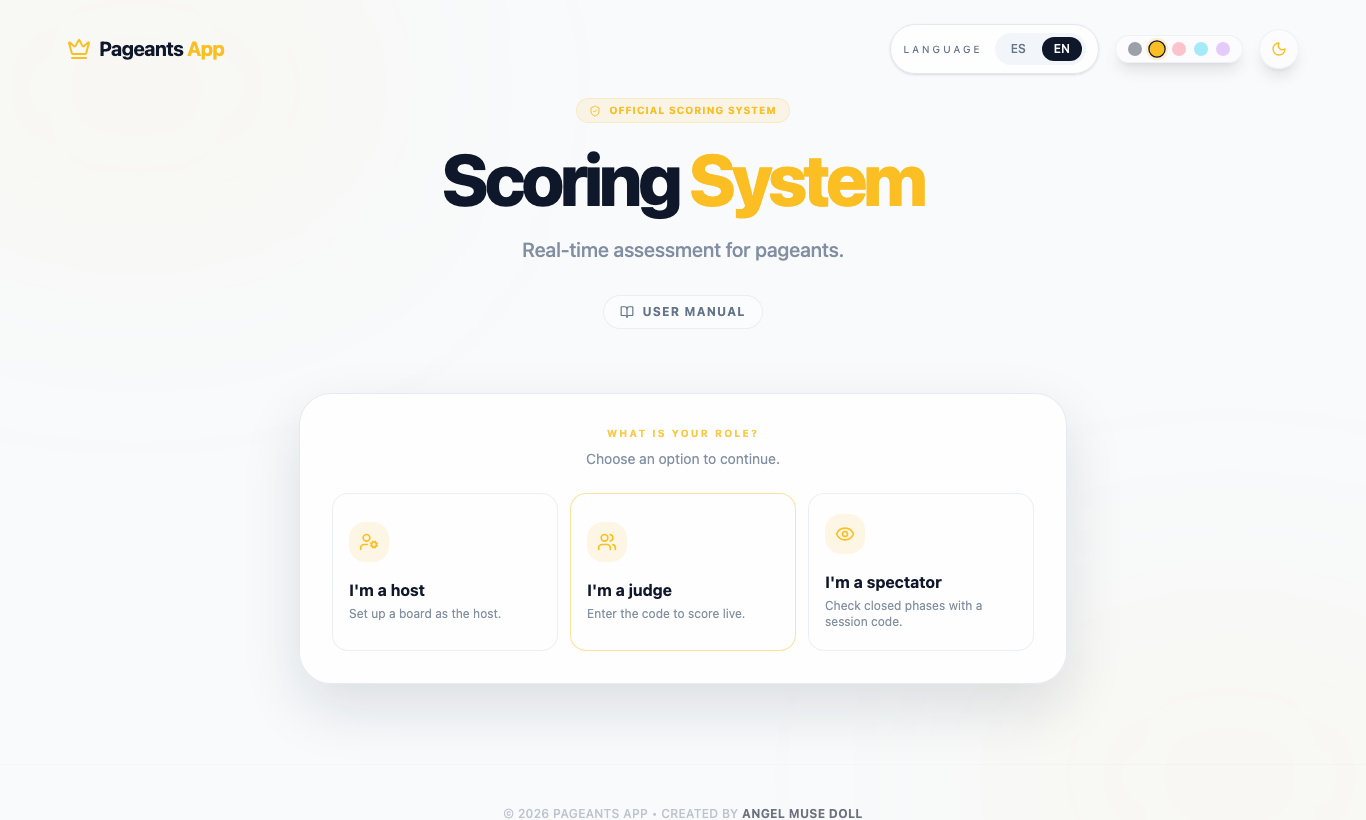
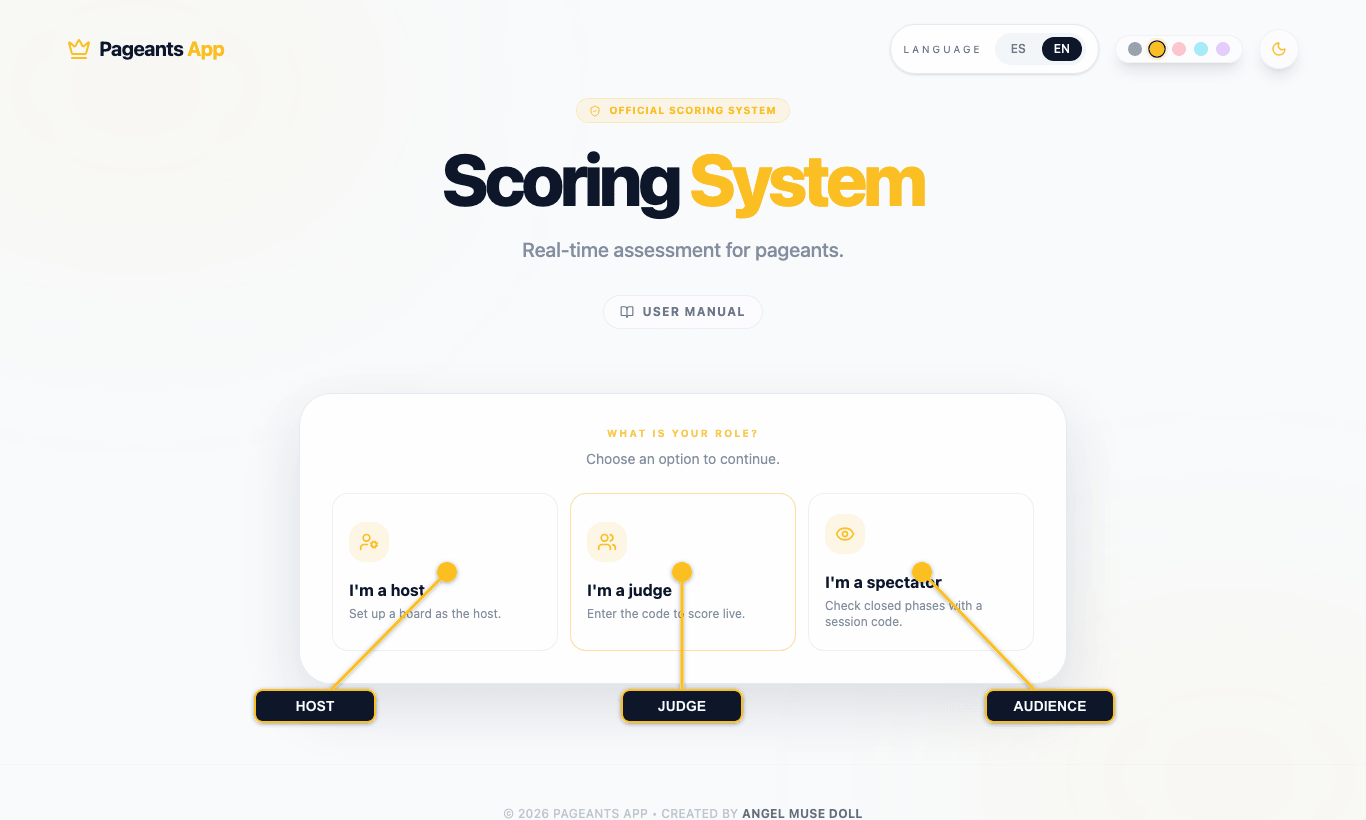
Update user guide with corrected screenshots and new workflow steps

diff --git a/src/pages/scoring/UserManual.jsx b/src/pages/scoring/UserManual.jsx
@@ -19,44 +19,59 @@ const manualSteps = [
     image: '/manual/guide-20260522-03-create-session.png'
   },
   {
-    title: '4) Share Session Code (MU- + 6 Characters)',
+    title: '4) Understand Scoring Modes',
+    text: 'Total Aggregate keeps adding points from all completed phases. Per Phase resets points every phase and ranks only with the current phase score.',
+    image: '/manual/guide-20260522-04-scoring-modes-difference.png'
+  },
+  {
+    title: '5) Share Session Code (MU- + 6 Characters)',
     text: 'The host board shows the session code. Judges and audience enter only the 6-character suffix because MU- is fixed in the input.',
-    image: '/manual/guide-20260522-04-host-session-code.png'
+    image: '/manual/guide-20260522-05-host-session-code.png'
   },
   {
-    title: '5) Add from List (Chaos Import + Preview)',
-    text: 'Use Add from list to paste raw/chaotic text. The workflow cleans names, detects country/place per line, and shows a preview before you approve adding participants.',
-    image: '/manual/guide-20260522-05-add-from-list.png'
+    title: '6) Add from List (Chaos Import + Preview)',
+    text: 'Use Add from list to paste raw/chaotic text. The workflow cleans names, detects country/place per line, keeps duplicates with (2), (3), and opens a skipped-lines review for edit/delete/submit-as-is before final approval.',
+    image: '/manual/guide-20260522-06-add-from-list.png'
   },
   {
-    title: '6) Judge Requests Access',
+    title: '7) Judge Requests Access',
     text: 'A judge enters name + 6-character code suffix and joins. Their access stays pending until the host approves.',
-    image: '/manual/guide-20260522-06-judge-awaiting-approval.png'
+    image: '/manual/guide-20260522-07-judge-awaiting-approval.png'
   },
   {
-    title: '7) Host Approval Notification',
+    title: '8) Host Approval Notification',
     text: 'Hosts receive a pending-judge notification with direct Approve/Reject actions. If the original host becomes inactive, controls transfer automatically to the first approved judge; when the host returns, they can reclaim controls from a notification.',
-    image: '/manual/guide-20260522-07-host-pending-notification.png'
+    image: '/manual/guide-20260522-08-host-pending-notification.png'
   },
   {
-    title: '8) Score the Active Phase',
-    text: 'Approved judges can score the active phase. During live scoring, judges do not see live cut/elimination decisions from the current phase.',
-    image: '/manual/guide-20260522-08-judge-scoring.png'
+    title: '9) Score the Active Phase',
+    text: 'Approved judges can score the active phase and see the last submitted results on the right panel. During live scoring, judges do not see live cut/elimination decisions from the current phase.',
+    image: '/manual/guide-20260522-09-judge-scoring.png'
   },
   {
-    title: '9) Native Cutoff Confirmation',
+    title: '10) Native Cutoff Confirmation',
     text: 'If the host tries to advance without cutoff, the app opens an in-app modal to define how many contestants advance before continuing.',
-    image: '/manual/guide-20260522-09-cutoff-modal.png'
+    image: '/manual/guide-20260522-10-cutoff-modal.png'
   },
   {
-    title: '10) Winner Screen',
+    title: '11) Winner Screen',
     text: 'When final cutoff is 1 and host reveals the winner, the board shows the winner summary and official final metrics.',
-    image: '/manual/guide-20260522-10-winner-view.png'
+    image: '/manual/guide-20260522-11-winner-view.png'
   },
   {
-    title: '11) Public Results View',
+    title: '12) Public Results View',
     text: 'Audience enters only the 6-character code suffix to open results. Public view shows closed phases and final winner when published.',
-    image: '/manual/guide-20260522-11-public-results.png'
+    image: '/manual/guide-20260522-12-public-results.png'
+  },
+  {
+    title: '13) Appearance Controls',
+    text: 'From the top-right controls, you can switch language, change accent color, and toggle light/dark themes at any time.',
+    image: '/manual/guide-20260522-13-appearance-controls.png'
+  },
+  {
+    title: '14) Download Results',
+    text: 'Open Reports and use Download image to export current scoreboards for sharing, publishing, or archive records.',
+    image: '/manual/guide-20260522-14-download-results.png'
   }
 ];
 
@@ -83,7 +98,7 @@ export default function UserManual() {
               </p>
               <h1 className="text-3xl md:text-4xl font-black tracking-tight">Scoring App - Complete Usage Guide</h1>
               <p className="text-sm md:text-base text-app-muted/80 mt-3 max-w-3xl">
-                Updated workflow guide with splash entry, scoring modes, Add from list preview import, host approval alerts, native cutoff modal, and latest public-results behavior.
+                Updated workflow guide with splash entry, scoring-mode differences, Add from list normalization and review flow, host approval alerts, native cutoff modal, appearance controls, and results export steps.
               </p>
             </div>
             <a